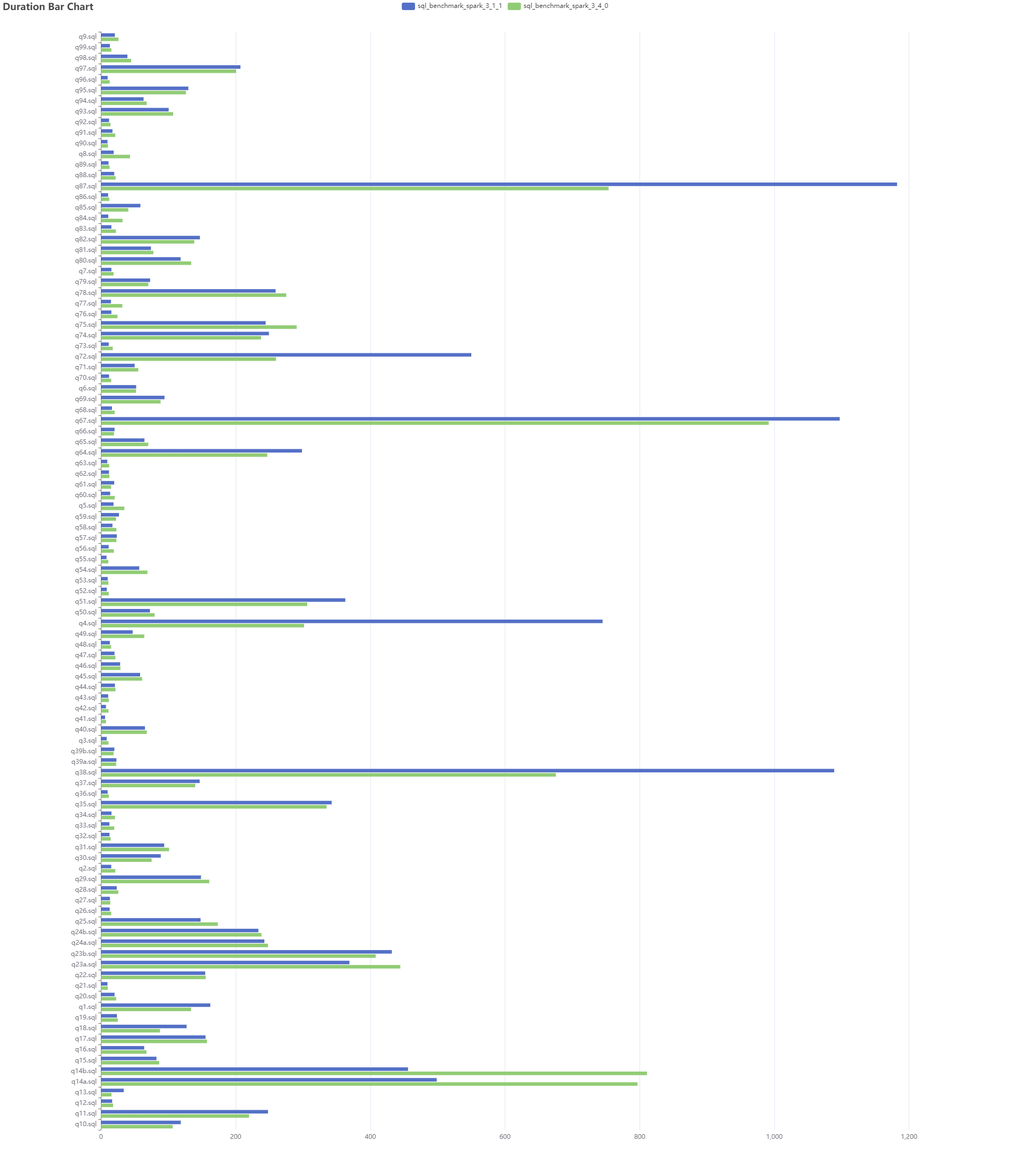
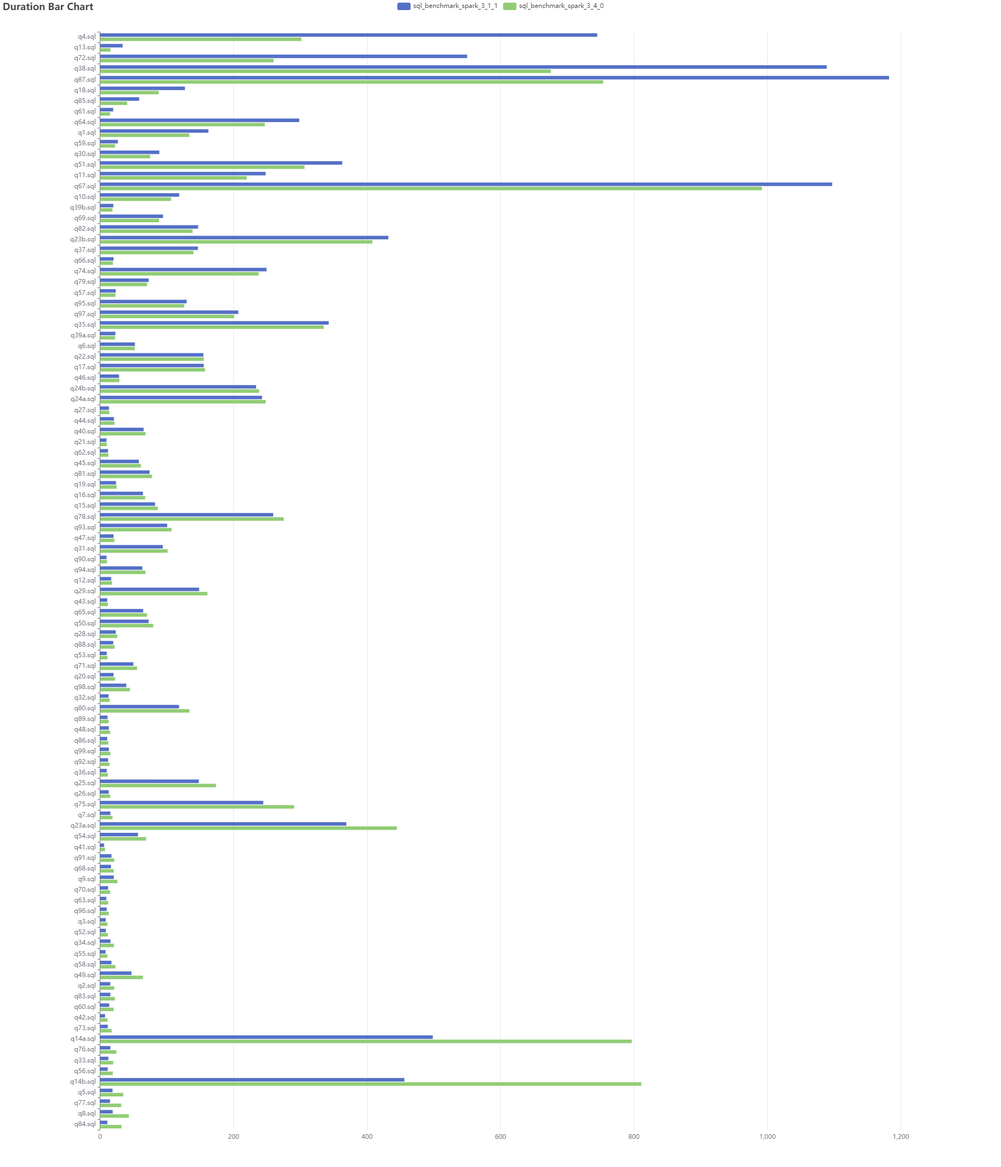
Generate `SpeedUp Bar Chart` in gen_chart script

Changed region(s): [[0.0615, 0.0, 0.8606, 0.9891], [0.6147, 0.1545, 0.7377, 0.1855]]

diff --git a/report/examples/aqe_001/aqe_001.html b/report/examples/aqe_001/aqe_001.html
@@ -6,7 +6,10 @@
     <script src="https://cdn.jsdelivr.net/npm/echarts@5.2.2/dist/echarts.min.js"></script>
     <style>
         #chart-container {
-		    position: absolute;
+            width: 100%;
+            height: 2200px;
+        }
+        #chart-container-speedup {
             width: 100%;
             height: 2200px;
         }
@@ -16,9 +19,13 @@
     <div id="chart-container">
         <div id="chart" style="height: 100%; width: 100%"></div>
     </div>
+    <div id="chart-container-speedup">
+        <div id="chart-speedup" style="height: 100%; width: 100%"></div>
+    </div>
     <script type="text/javascript">
-        var data1 = [{"name": "q10.sql", "value": 118.458}, {"name": "q11.sql", "value": 248.014}, {"name": "q12.sql", "value": 16.56}, {"name": "q13.sql", "value": 33.747}, {"name": "q14a.sql", "value": 498.545}, {"name": "q14b.sql", "value": 455.925}, {"name": "q15.sql", "value": 82.366}, {"name": "q16.sql", "value": 64.142}, {"name": "q17.sql", "value": 155.232}, {"name": "q18.sql", "value": 127.125}, {"name": "q19.sql", "value": 23.711}, {"name": "q1.sql", "value": 162.296}, {"name": "q20.sql", "value": 20.122}, {"name": "q21.sql", "value": 9.578}, {"name": "q22.sql", "value": 154.73}, {"name": "q23a.sql", "value": 368.983}, {"name": "q23b.sql", "value": 431.932}, {"name": "q24a.sql", "value": 242.616}, {"name": "q24b.sql", "value": 233.767}, {"name": "q25.sql", "value": 147.883}, {"name": "q26.sql", "value": 12.907}, {"name": "q27.sql", "value": 13.261}, {"name": "q28.sql", "value": 23.385}, {"name": "q29.sql", "value": 148.435}, {"name": "q2.sql", "value": 15.212}, {"name": "q30.sql", "value": 88.754}, {"name": "q31.sql", "value": 93.846}, {"name": "q32.sql", "value": 12.61}, {"name": "q33.sql", "value": 12.471}, {"name": "q34.sql", "value": 15.578}, {"name": "q35.sql", "value": 342.572}, {"name": "q36.sql", "value": 9.846}, {"name": "q37.sql", "value": 146.562}, {"name": "q38.sql", "value": 1088.923}, {"name": "q39a.sql", "value": 22.928}, {"name": "q39b.sql", "value": 19.837}, {"name": "q3.sql", "value": 8.441}, {"name": "q40.sql", "value": 65.284}, {"name": "q41.sql", "value": 6.056}, {"name": "q42.sql", "value": 7.396}, {"name": "q43.sql", "value": 10.647}, {"name": "q44.sql", "value": 20.662}, {"name": "q45.sql", "value": 58.099}, {"name": "q46.sql", "value": 28.385}, {"name": "q47.sql", "value": 20.064}, {"name": "q48.sql", "value": 13.096}, {"name": "q49.sql", "value": 47.016}, {"name": "q4.sql", "value": 744.956}, {"name": "q50.sql", "value": 72.679}, {"name": "q51.sql", "value": 362.825}, {"name": "q52.sql", "value": 8.627}, {"name": "q53.sql", "value": 9.921}, {"name": "q54.sql", "value": 56.762}, {"name": "q55.sql", "value": 8.203}, {"name": "q56.sql", "value": 11.376}, {"name": "q57.sql", "value": 23.47}, {"name": "q58.sql", "value": 17.042}, {"name": "q59.sql", "value": 26.675}, {"name": "q5.sql", "value": 18.589}, {"name": "q60.sql", "value": 13.625}, {"name": "q61.sql", "value": 19.605}, {"name": "q62.sql", "value": 11.836}, {"name": "q63.sql", "value": 9.328}, {"name": "q64.sql", "value": 298.439}, {"name": "q65.sql", "value": 64.522}, {"name": "q66.sql", "value": 20.138}, {"name": "q67.sql", "value": 1097.076}, {"name": "q68.sql", "value": 16.286}, {"name": "q69.sql", "value": 94.285}, {"name": "q6.sql", "value": 52.202}, {"name": "q70.sql", "value": 11.969}, {"name": "q71.sql", "value": 49.946}, {"name": "q72.sql", "value": 549.941}, {"name": "q73.sql", "value": 11.503}, {"name": "q74.sql", "value": 249.403}, {"name": "q75.sql", "value": 244.519}, {"name": "q76.sql", "value": 15.367}, {"name": "q77.sql", "value": 14.818}, {"name": "q78.sql", "value": 259.311}, {"name": "q79.sql", "value": 72.942}, {"name": "q7.sql", "value": 15.432}, {"name": "q80.sql", "value": 118.225}, {"name": "q81.sql", "value": 74.144}, {"name": "q82.sql", "value": 146.893}, {"name": "q83.sql", "value": 15.415}, {"name": "q84.sql", "value": 10.84}, {"name": "q85.sql", "value": 58.488}, {"name": "q86.sql", "value": 10.544}, {"name": "q87.sql", "value": 1182.264}, {"name": "q88.sql", "value": 19.655}, {"name": "q89.sql", "value": 11.133}, {"name": "q8.sql", "value": 18.835}, {"name": "q90.sql", "value": 9.639}, {"name": "q91.sql", "value": 17.038}, {"name": "q92.sql", "value": 11.977}, {"name": "q93.sql", "value": 100.531}, {"name": "q94.sql", "value": 63.222}, {"name": "q95.sql", "value": 129.704}, {"name": "q96.sql", "value": 9.862}, {"name": "q97.sql", "value": 207.124}, {"name": "q98.sql", "value": 39.195}, {"name": "q99.sql", "value": 13.158}, {"name": "q9.sql", "value": 20.536}];
-        var data2 = [{"name": "q10.sql", "value": 106.457}, {"name": "q11.sql", "value": 219.81}, {"name": "q12.sql", "value": 17.939}, {"name": "q13.sql", "value": 15.574}, {"name": "q14a.sql", "value": 796.665}, {"name": "q14b.sql", "value": 810.884}, {"name": "q15.sql", "value": 86.444}, {"name": "q16.sql", "value": 67.482}, {"name": "q17.sql", "value": 157.312}, {"name": "q18.sql", "value": 87.67}, {"name": "q19.sql", "value": 24.895}, {"name": "q1.sql", "value": 133.694}, {"name": "q20.sql", "value": 22.521}, {"name": "q21.sql", "value": 9.99}, {"name": "q22.sql", "value": 155.465}, {"name": "q23a.sql", "value": 444.545}, {"name": "q23b.sql", "value": 407.983}, {"name": "q24a.sql", "value": 248.054}, {"name": "q24b.sql", "value": 238.34}, {"name": "q25.sql", "value": 173.505}, {"name": "q26.sql", "value": 15.169}, {"name": "q27.sql", "value": 13.781}, {"name": "q28.sql", "value": 25.73}, {"name": "q29.sql", "value": 160.794}, {"name": "q2.sql", "value": 21.211}, {"name": "q30.sql", "value": 75.144}, {"name": "q31.sql", "value": 101.056}, {"name": "q32.sql", "value": 14.388}, {"name": "q33.sql", "value": 19.688}, {"name": "q34.sql", "value": 20.74}, {"name": "q35.sql", "value": 335.117}, {"name": "q36.sql", "value": 11.574}, {"name": "q37.sql", "value": 139.887}, {"name": "q38.sql", "value": 675.528}, {"name": "q39a.sql", "value": 22.521}, {"name": "q39b.sql", "value": 18.623}, {"name": "q3.sql", "value": 11.15}, {"name": "q40.sql", "value": 67.93}, {"name": "q41.sql", "value": 7.361}, {"name": "q42.sql", "value": 11.133}, {"name": "q43.sql", "value": 11.595}, {"name": "q44.sql", "value": 21.551}, {"name": "q45.sql", "value": 61.142}, {"name": "q46.sql", "value": 28.845}, {"name": "q47.sql", "value": 21.374}, {"name": "q48.sql", "value": 15.065}, {"name": "q49.sql", "value": 64.236}, {"name": "q4.sql", "value": 301.599}, {"name": "q50.sql", "value": 79.603}, {"name": "q51.sql", "value": 306.319}, {"name": "q52.sql", "value": 11.461}, {"name": "q53.sql", "value": 11.076}, {"name": "q54.sql", "value": 68.966}, {"name": "q55.sql", "value": 10.905}, {"name": "q56.sql", "value": 19.071}, {"name": "q57.sql", "value": 22.894}, {"name": "q58.sql", "value": 22.889}, {"name": "q59.sql", "value": 22.342}, {"name": "q5.sql", "value": 34.669}, {"name": "q60.sql", "value": 20.383}, {"name": "q61.sql", "value": 14.929}, {"name": "q62.sql", "value": 12.438}, {"name": "q63.sql", "value": 12.143}, {"name": "q64.sql", "value": 246.889}, {"name": "q65.sql", "value": 70.248}, {"name": "q66.sql", "value": 19.247}, {"name": "q67.sql", "value": 991.729}, {"name": "q68.sql", "value": 20.31}, {"name": "q69.sql", "value": 88.438}, {"name": "q6.sql", "value": 51.983}, {"name": "q70.sql", "value": 15.11}, {"name": "q71.sql", "value": 55.446}, {"name": "q72.sql", "value": 259.997}, {"name": "q73.sql", "value": 17.442}, {"name": "q74.sql", "value": 237.758}, {"name": "q75.sql", "value": 290.586}, {"name": "q76.sql", "value": 24.44}, {"name": "q77.sql", "value": 31.696}, {"name": "q78.sql", "value": 275.085}, {"name": "q79.sql", "value": 70.307}, {"name": "q7.sql", "value": 18.654}, {"name": "q80.sql", "value": 133.925}, {"name": "q81.sql", "value": 77.76}, {"name": "q82.sql", "value": 138.579}, {"name": "q83.sql", "value": 22.086}, {"name": "q84.sql", "value": 32.015}, {"name": "q85.sql", "value": 40.602}, {"name": "q86.sql", "value": 12.257}, {"name": "q87.sql", "value": 753.839}, {"name": "q88.sql", "value": 21.696}, {"name": "q89.sql", "value": 12.75}, {"name": "q8.sql", "value": 43.092}, {"name": "q90.sql", "value": 10.359}, {"name": "q91.sql", "value": 21.182}, {"name": "q92.sql", "value": 14.147}, {"name": "q93.sql", "value": 107.116}, {"name": "q94.sql", "value": 67.869}, {"name": "q95.sql", "value": 126.145}, {"name": "q96.sql", "value": 12.878}, {"name": "q97.sql", "value": 200.765}, {"name": "q98.sql", "value": 44.708}, {"name": "q99.sql", "value": 15.388}, {"name": "q9.sql", "value": 25.976}];
+        var data1 = [{"name": "q84.sql", "value": 10.84}, {"name": "q8.sql", "value": 18.835}, {"name": "q77.sql", "value": 14.818}, {"name": "q5.sql", "value": 18.589}, {"name": "q14b.sql", "value": 455.925}, {"name": "q56.sql", "value": 11.376}, {"name": "q33.sql", "value": 12.471}, {"name": "q76.sql", "value": 15.367}, {"name": "q14a.sql", "value": 498.545}, {"name": "q73.sql", "value": 11.503}, {"name": "q42.sql", "value": 7.396}, {"name": "q60.sql", "value": 13.625}, {"name": "q83.sql", "value": 15.415}, {"name": "q2.sql", "value": 15.212}, {"name": "q49.sql", "value": 47.016}, {"name": "q58.sql", "value": 17.042}, {"name": "q55.sql", "value": 8.203}, {"name": "q34.sql", "value": 15.578}, {"name": "q52.sql", "value": 8.627}, {"name": "q3.sql", "value": 8.441}, {"name": "q96.sql", "value": 9.862}, {"name": "q63.sql", "value": 9.328}, {"name": "q70.sql", "value": 11.969}, {"name": "q9.sql", "value": 20.536}, {"name": "q68.sql", "value": 16.286}, {"name": "q91.sql", "value": 17.038}, {"name": "q41.sql", "value": 6.056}, {"name": "q54.sql", "value": 56.762}, {"name": "q23a.sql", "value": 368.983}, {"name": "q7.sql", "value": 15.432}, {"name": "q75.sql", "value": 244.519}, {"name": "q26.sql", "value": 12.907}, {"name": "q25.sql", "value": 147.883}, {"name": "q36.sql", "value": 9.846}, {"name": "q92.sql", "value": 11.977}, {"name": "q99.sql", "value": 13.158}, {"name": "q86.sql", "value": 10.544}, {"name": "q48.sql", "value": 13.096}, {"name": "q89.sql", "value": 11.133}, {"name": "q80.sql", "value": 118.225}, {"name": "q32.sql", "value": 12.61}, {"name": "q98.sql", "value": 39.195}, {"name": "q20.sql", "value": 20.122}, {"name": "q71.sql", "value": 49.946}, {"name": "q53.sql", "value": 9.921}, {"name": "q88.sql", "value": 19.655}, {"name": "q28.sql", "value": 23.385}, {"name": "q50.sql", "value": 72.679}, {"name": "q65.sql", "value": 64.522}, {"name": "q43.sql", "value": 10.647}, {"name": "q29.sql", "value": 148.435}, {"name": "q12.sql", "value": 16.56}, {"name": "q94.sql", "value": 63.222}, {"name": "q90.sql", "value": 9.639}, {"name": "q31.sql", "value": 93.846}, {"name": "q47.sql", "value": 20.064}, {"name": "q93.sql", "value": 100.531}, {"name": "q78.sql", "value": 259.311}, {"name": "q15.sql", "value": 82.366}, {"name": "q16.sql", "value": 64.142}, {"name": "q19.sql", "value": 23.711}, {"name": "q81.sql", "value": 74.144}, {"name": "q45.sql", "value": 58.099}, {"name": "q62.sql", "value": 11.836}, {"name": "q21.sql", "value": 9.578}, {"name": "q40.sql", "value": 65.284}, {"name": "q44.sql", "value": 20.662}, {"name": "q27.sql", "value": 13.261}, {"name": "q24a.sql", "value": 242.616}, {"name": "q24b.sql", "value": 233.767}, {"name": "q46.sql", "value": 28.385}, {"name": "q17.sql", "value": 155.232}, {"name": "q22.sql", "value": 154.73}, {"name": "q6.sql", "value": 52.202}, {"name": "q39a.sql", "value": 22.928}, {"name": "q35.sql", "value": 342.572}, {"name": "q97.sql", "value": 207.124}, {"name": "q95.sql", "value": 129.704}, {"name": "q57.sql", "value": 23.47}, {"name": "q79.sql", "value": 72.942}, {"name": "q74.sql", "value": 249.403}, {"name": "q66.sql", "value": 20.138}, {"name": "q37.sql", "value": 146.562}, {"name": "q23b.sql", "value": 431.932}, {"name": "q82.sql", "value": 146.893}, {"name": "q69.sql", "value": 94.285}, {"name": "q39b.sql", "value": 19.837}, {"name": "q10.sql", "value": 118.458}, {"name": "q67.sql", "value": 1097.076}, {"name": "q11.sql", "value": 248.014}, {"name": "q51.sql", "value": 362.825}, {"name": "q30.sql", "value": 88.754}, {"name": "q59.sql", "value": 26.675}, {"name": "q1.sql", "value": 162.296}, {"name": "q64.sql", "value": 298.439}, {"name": "q61.sql", "value": 19.605}, {"name": "q85.sql", "value": 58.488}, {"name": "q18.sql", "value": 127.125}, {"name": "q87.sql", "value": 1182.264}, {"name": "q38.sql", "value": 1088.923}, {"name": "q72.sql", "value": 549.941}, {"name": "q13.sql", "value": 33.747}, {"name": "q4.sql", "value": 744.956}];
+        var data2 = [{"name": "q84.sql", "value": 32.015}, {"name": "q8.sql", "value": 43.092}, {"name": "q77.sql", "value": 31.696}, {"name": "q5.sql", "value": 34.669}, {"name": "q14b.sql", "value": 810.884}, {"name": "q56.sql", "value": 19.071}, {"name": "q33.sql", "value": 19.688}, {"name": "q76.sql", "value": 24.44}, {"name": "q14a.sql", "value": 796.665}, {"name": "q73.sql", "value": 17.442}, {"name": "q42.sql", "value": 11.133}, {"name": "q60.sql", "value": 20.383}, {"name": "q83.sql", "value": 22.086}, {"name": "q2.sql", "value": 21.211}, {"name": "q49.sql", "value": 64.236}, {"name": "q58.sql", "value": 22.889}, {"name": "q55.sql", "value": 10.905}, {"name": "q34.sql", "value": 20.74}, {"name": "q52.sql", "value": 11.461}, {"name": "q3.sql", "value": 11.15}, {"name": "q96.sql", "value": 12.878}, {"name": "q63.sql", "value": 12.143}, {"name": "q70.sql", "value": 15.11}, {"name": "q9.sql", "value": 25.976}, {"name": "q68.sql", "value": 20.31}, {"name": "q91.sql", "value": 21.182}, {"name": "q41.sql", "value": 7.361}, {"name": "q54.sql", "value": 68.966}, {"name": "q23a.sql", "value": 444.545}, {"name": "q7.sql", "value": 18.654}, {"name": "q75.sql", "value": 290.586}, {"name": "q26.sql", "value": 15.169}, {"name": "q25.sql", "value": 173.505}, {"name": "q36.sql", "value": 11.574}, {"name": "q92.sql", "value": 14.147}, {"name": "q99.sql", "value": 15.388}, {"name": "q86.sql", "value": 12.257}, {"name": "q48.sql", "value": 15.065}, {"name": "q89.sql", "value": 12.75}, {"name": "q80.sql", "value": 133.925}, {"name": "q32.sql", "value": 14.388}, {"name": "q98.sql", "value": 44.708}, {"name": "q20.sql", "value": 22.521}, {"name": "q71.sql", "value": 55.446}, {"name": "q53.sql", "value": 11.076}, {"name": "q88.sql", "value": 21.696}, {"name": "q28.sql", "value": 25.73}, {"name": "q50.sql", "value": 79.603}, {"name": "q65.sql", "value": 70.248}, {"name": "q43.sql", "value": 11.595}, {"name": "q29.sql", "value": 160.794}, {"name": "q12.sql", "value": 17.939}, {"name": "q94.sql", "value": 67.869}, {"name": "q90.sql", "value": 10.359}, {"name": "q31.sql", "value": 101.056}, {"name": "q47.sql", "value": 21.374}, {"name": "q93.sql", "value": 107.116}, {"name": "q78.sql", "value": 275.085}, {"name": "q15.sql", "value": 86.444}, {"name": "q16.sql", "value": 67.482}, {"name": "q19.sql", "value": 24.895}, {"name": "q81.sql", "value": 77.76}, {"name": "q45.sql", "value": 61.142}, {"name": "q62.sql", "value": 12.438}, {"name": "q21.sql", "value": 9.99}, {"name": "q40.sql", "value": 67.93}, {"name": "q44.sql", "value": 21.551}, {"name": "q27.sql", "value": 13.781}, {"name": "q24a.sql", "value": 248.054}, {"name": "q24b.sql", "value": 238.34}, {"name": "q46.sql", "value": 28.845}, {"name": "q17.sql", "value": 157.312}, {"name": "q22.sql", "value": 155.465}, {"name": "q6.sql", "value": 51.983}, {"name": "q39a.sql", "value": 22.521}, {"name": "q35.sql", "value": 335.117}, {"name": "q97.sql", "value": 200.765}, {"name": "q95.sql", "value": 126.145}, {"name": "q57.sql", "value": 22.894}, {"name": "q79.sql", "value": 70.307}, {"name": "q74.sql", "value": 237.758}, {"name": "q66.sql", "value": 19.247}, {"name": "q37.sql", "value": 139.887}, {"name": "q23b.sql", "value": 407.983}, {"name": "q82.sql", "value": 138.579}, {"name": "q69.sql", "value": 88.438}, {"name": "q39b.sql", "value": 18.623}, {"name": "q10.sql", "value": 106.457}, {"name": "q67.sql", "value": 991.729}, {"name": "q11.sql", "value": 219.81}, {"name": "q51.sql", "value": 306.319}, {"name": "q30.sql", "value": 75.144}, {"name": "q59.sql", "value": 22.342}, {"name": "q1.sql", "value": 133.694}, {"name": "q64.sql", "value": 246.889}, {"name": "q61.sql", "value": 14.929}, {"name": "q85.sql", "value": 40.602}, {"name": "q18.sql", "value": 87.67}, {"name": "q87.sql", "value": 753.839}, {"name": "q38.sql", "value": 675.528}, {"name": "q72.sql", "value": 259.997}, {"name": "q13.sql", "value": 15.574}, {"name": "q4.sql", "value": 301.599}];
+        var data3 = [{"name": "q84.sql", "value": 0.34}, {"name": "q8.sql", "value": 0.44}, {"name": "q77.sql", "value": 0.47}, {"name": "q5.sql", "value": 0.54}, {"name": "q14b.sql", "value": 0.56}, {"name": "q56.sql", "value": 0.6}, {"name": "q33.sql", "value": 0.63}, {"name": "q76.sql", "value": 0.63}, {"name": "q14a.sql", "value": 0.63}, {"name": "q73.sql", "value": 0.66}, {"name": "q42.sql", "value": 0.66}, {"name": "q60.sql", "value": 0.67}, {"name": "q83.sql", "value": 0.7}, {"name": "q2.sql", "value": 0.72}, {"name": "q49.sql", "value": 0.73}, {"name": "q58.sql", "value": 0.74}, {"name": "q55.sql", "value": 0.75}, {"name": "q34.sql", "value": 0.75}, {"name": "q52.sql", "value": 0.75}, {"name": "q3.sql", "value": 0.76}, {"name": "q96.sql", "value": 0.77}, {"name": "q63.sql", "value": 0.77}, {"name": "q70.sql", "value": 0.79}, {"name": "q9.sql", "value": 0.79}, {"name": "q68.sql", "value": 0.8}, {"name": "q91.sql", "value": 0.8}, {"name": "q41.sql", "value": 0.82}, {"name": "q54.sql", "value": 0.82}, {"name": "q23a.sql", "value": 0.83}, {"name": "q7.sql", "value": 0.83}, {"name": "q75.sql", "value": 0.84}, {"name": "q26.sql", "value": 0.85}, {"name": "q25.sql", "value": 0.85}, {"name": "q36.sql", "value": 0.85}, {"name": "q92.sql", "value": 0.85}, {"name": "q99.sql", "value": 0.86}, {"name": "q86.sql", "value": 0.86}, {"name": "q48.sql", "value": 0.87}, {"name": "q89.sql", "value": 0.87}, {"name": "q80.sql", "value": 0.88}, {"name": "q32.sql", "value": 0.88}, {"name": "q98.sql", "value": 0.88}, {"name": "q20.sql", "value": 0.89}, {"name": "q71.sql", "value": 0.9}, {"name": "q53.sql", "value": 0.9}, {"name": "q88.sql", "value": 0.91}, {"name": "q28.sql", "value": 0.91}, {"name": "q50.sql", "value": 0.91}, {"name": "q65.sql", "value": 0.92}, {"name": "q43.sql", "value": 0.92}, {"name": "q29.sql", "value": 0.92}, {"name": "q12.sql", "value": 0.92}, {"name": "q94.sql", "value": 0.93}, {"name": "q90.sql", "value": 0.93}, {"name": "q31.sql", "value": 0.93}, {"name": "q47.sql", "value": 0.94}, {"name": "q93.sql", "value": 0.94}, {"name": "q78.sql", "value": 0.94}, {"name": "q15.sql", "value": 0.95}, {"name": "q16.sql", "value": 0.95}, {"name": "q19.sql", "value": 0.95}, {"name": "q81.sql", "value": 0.95}, {"name": "q45.sql", "value": 0.95}, {"name": "q62.sql", "value": 0.95}, {"name": "q21.sql", "value": 0.96}, {"name": "q40.sql", "value": 0.96}, {"name": "q44.sql", "value": 0.96}, {"name": "q27.sql", "value": 0.96}, {"name": "q24a.sql", "value": 0.98}, {"name": "q24b.sql", "value": 0.98}, {"name": "q46.sql", "value": 0.98}, {"name": "q17.sql", "value": 0.99}, {"name": "q22.sql", "value": 1.0}, {"name": "q6.sql", "value": 1.0}, {"name": "q39a.sql", "value": 1.02}, {"name": "q35.sql", "value": 1.02}, {"name": "q97.sql", "value": 1.03}, {"name": "q95.sql", "value": 1.03}, {"name": "q57.sql", "value": 1.03}, {"name": "q79.sql", "value": 1.04}, {"name": "q74.sql", "value": 1.05}, {"name": "q66.sql", "value": 1.05}, {"name": "q37.sql", "value": 1.05}, {"name": "q23b.sql", "value": 1.06}, {"name": "q82.sql", "value": 1.06}, {"name": "q69.sql", "value": 1.07}, {"name": "q39b.sql", "value": 1.07}, {"name": "q10.sql", "value": 1.11}, {"name": "q67.sql", "value": 1.11}, {"name": "q11.sql", "value": 1.13}, {"name": "q51.sql", "value": 1.18}, {"name": "q30.sql", "value": 1.18}, {"name": "q59.sql", "value": 1.19}, {"name": "q1.sql", "value": 1.21}, {"name": "q64.sql", "value": 1.21}, {"name": "q61.sql", "value": 1.31}, {"name": "q85.sql", "value": 1.44}, {"name": "q18.sql", "value": 1.45}, {"name": "q87.sql", "value": 1.57}, {"name": "q38.sql", "value": 1.61}, {"name": "q72.sql", "value": 2.12}, {"name": "q13.sql", "value": 2.17}, {"name": "q4.sql", "value": 2.47}];
         var seriesName1 = "sql_benchmark_spark_3_1_1";
         var seriesName2 = "sql_benchmark_spark_3_4_0";
 
@@ -54,6 +61,41 @@
             }]
         };
         chart.setOption(option);
+        
+        var chartSpeedup = echarts.init(document.getElementById("chart-speedup"));
+        var optionSpeedup = {
+            title: {
+                text: "SpeedUp Bar Chart (Duration(s)_1/Duration(s)_2)"
+            },
+            legend: {
+                data: ["SpeedUp"]
+            },
+            xAxis: {
+                type: "value"
+            },
+            yAxis: {
+                type: "category",
+                data: data3.map(function (item) {
+                    return item.name;
+                })
+            },
+            series: [{
+                name: "SpeedUp",
+                type: "bar",
+                label: {
+                    show: true,
+                    formatter: '{c}'
+                },
+                data: data3.map(function (item) {
+                    if (item.value < 1) {
+                        return {value: item.value, itemStyle: {color: '#a90000'}};
+                    } else {
+                        return item.value
+                    }
+                })
+            }]
+        };
+        chartSpeedup.setOption(optionSpeedup);
     </script>
 </body>
 </html>

diff --git a/report/examples/gluten_spark_3.3.2/gluten_spark_3.3.2.html b/report/examples/gluten_spark_3.3.2/gluten_spark_3.3.2.html
@@ -6,7 +6,10 @@
     <script src="https://cdn.jsdelivr.net/npm/echarts@5.2.2/dist/echarts.min.js"></script>
     <style>
         #chart-container {
-		    position: absolute;
+            width: 100%;
+            height: 2200px;
+        }
+        #chart-container-speedup {
             width: 100%;
             height: 2200px;
         }
@@ -16,9 +19,13 @@
     <div id="chart-container">
         <div id="chart" style="height: 100%; width: 100%"></div>
     </div>
+    <div id="chart-container-speedup">
+        <div id="chart-speedup" style="height: 100%; width: 100%"></div>
+    </div>
     <script type="text/javascript">
-        var data1 = [{"name": "q10.sql", "value": 85.335}, {"name": "q11.sql", "value": 71.904}, {"name": "q12.sql", "value": 12.572}, {"name": "q13.sql", "value": 16.258}, {"name": "q14a.sql", "value": 73.125}, {"name": "q14b.sql", "value": 67.887}, {"name": "q15.sql", "value": 17.019}, {"name": "q16.sql", "value": 47.491}, {"name": "q17.sql", "value": 21.031}, {"name": "q18.sql", "value": 24.452}, {"name": "q19.sql", "value": 12.575}, {"name": "q1.sql", "value": 18.197}, {"name": "q20.sql", "value": 11.61}, {"name": "q21.sql", "value": 9.173}, {"name": "q22.sql", "value": 16.677}, {"name": "q23a.sql", "value": 141.575}, {"name": "q23b.sql", "value": 145.872}, {"name": "q24a.sql", "value": 96.649}, {"name": "q24b.sql", "value": 102.575}, {"name": "q25.sql", "value": 17.9}, {"name": "q26.sql", "value": 10.576}, {"name": "q27.sql", "value": 12.669}, {"name": "q28.sql", "value": 25.844}, {"name": "q29.sql", "value": 22.381}, {"name": "q2.sql", "value": 14.787}, {"name": "q30.sql", "value": 18.05}, {"name": "q31.sql", "value": 21.406}, {"name": "q32.sql", "value": 11.079}, {"name": "q33.sql", "value": 14.001}, {"name": "q34.sql", "value": 14.995}, {"name": "q35.sql", "value": 20.351}, {"name": "q36.sql", "value": 11.184}, {"name": "q37.sql", "value": 13.995}, {"name": "q38.sql", "value": 25.807}, {"name": "q39a.sql", "value": 15.083}, {"name": "q39b.sql", "value": 12.091}, {"name": "q3.sql", "value": 8.261}, {"name": "q40.sql", "value": 13.892}, {"name": "q41.sql", "value": 7.435}, {"name": "q42.sql", "value": 8.409}, {"name": "q43.sql", "value": 9.653}, {"name": "q44.sql", "value": 16.506}, {"name": "q45.sql", "value": 15.521}, {"name": "q46.sql", "value": 14.196}, {"name": "q47.sql", "value": 15.744}, {"name": "q48.sql", "value": 13.503}, {"name": "q49.sql", "value": 17.98}, {"name": "q4.sql", "value": 100.477}, {"name": "q50.sql", "value": 42.958}, {"name": "q51.sql", "value": 24.483}, {"name": "q52.sql", "value": 8.802}, {"name": "q53.sql", "value": 9.327}, {"name": "q54.sql", "value": 14.941}, {"name": "q55.sql", "value": 9.053}, {"name": "q56.sql", "value": 11.53}, {"name": "q57.sql", "value": 14.218}, {"name": "q58.sql", "value": 12.385}, {"name": "q59.sql", "value": 15.671}, {"name": "q5.sql", "value": 19.02}, {"name": "q60.sql", "value": 15.864}, {"name": "q61.sql", "value": 10.412}, {"name": "q62.sql", "value": 10.453}, {"name": "q63.sql", "value": 10.775}, {"name": "q64.sql", "value": 63.331}, {"name": "q65.sql", "value": 23.014}, {"name": "q66.sql", "value": 14.798}, {"name": "q67.sql", "value": 407.974}, {"name": "q68.sql", "value": 13.755}, {"name": "q69.sql", "value": 13.562}, {"name": "q6.sql", "value": 12.996}, {"name": "q70.sql", "value": 12.618}, {"name": "q71.sql", "value": 50.445}, {"name": "q72.sql", "value": 96.539}, {"name": "q73.sql", "value": 10.782}, {"name": "q74.sql", "value": 32.367}, {"name": "q75.sql", "value": 32.024}, {"name": "q76.sql", "value": 15.171}, {"name": "q77.sql", "value": 14.75}, {"name": "q78.sql", "value": 71.173}, {"name": "q79.sql", "value": 13.133}, {"name": "q7.sql", "value": 12.189}, {"name": "q80.sql", "value": 24.263}, {"name": "q81.sql", "value": 17.703}, {"name": "q82.sql", "value": 19.511}, {"name": "q83.sql", "value": 11.396}, {"name": "q84.sql", "value": 10.196}, {"name": "q85.sql", "value": 18.422}, {"name": "q86.sql", "value": 10.297}, {"name": "q87.sql", "value": 23.562}, {"name": "q88.sql", "value": 24.724}, {"name": "q89.sql", "value": 10.896}, {"name": "q8.sql", "value": 12.157}, {"name": "q90.sql", "value": 9.595}, {"name": "q91.sql", "value": 9.792}, {"name": "q92.sql", "value": 9.998}, {"name": "q93.sql", "value": 74.793}, {"name": "q94.sql", "value": 31.373}, {"name": "q95.sql", "value": 62.733}, {"name": "q96.sql", "value": 9.504}, {"name": "q97.sql", "value": 25.557}, {"name": "q98.sql", "value": 19.797}, {"name": "q99.sql", "value": 12.064}, {"name": "q9.sql", "value": 20.565}];
-        var data2 = [{"name": "q10.sql", "value": 25.553}, {"name": "q11.sql", "value": 15.545}, {"name": "q12.sql", "value": 12.426}, {"name": "q13.sql", "value": 18.367}, {"name": "q14a.sql", "value": 83.431}, {"name": "q14b.sql", "value": 67.496}, {"name": "q15.sql", "value": 14.321}, {"name": "q16.sql", "value": 36.914}, {"name": "q17.sql", "value": 15.808}, {"name": "q18.sql", "value": 16.615}, {"name": "q19.sql", "value": 11.515}, {"name": "q1.sql", "value": 14.35}, {"name": "q20.sql", "value": 10.071}, {"name": "q21.sql", "value": 8.286}, {"name": "q22.sql", "value": 13.423}, {"name": "q23a.sql", "value": 61.013}, {"name": "q23b.sql", "value": 68.445}, {"name": "q24a.sql", "value": 50.093}, {"name": "q24b.sql", "value": 54.957}, {"name": "q25.sql", "value": 14.997}, {"name": "q26.sql", "value": 10.054}, {"name": "q27.sql", "value": 10.225}, {"name": "q28.sql", "value": 21.496}, {"name": "q29.sql", "value": 14.375}, {"name": "q2.sql", "value": 16.784}, {"name": "q30.sql", "value": 21.04}, {"name": "q31.sql", "value": 21.725}, {"name": "q32.sql", "value": 9.684}, {"name": "q33.sql", "value": 13.739}, {"name": "q34.sql", "value": 17.43}, {"name": "q35.sql", "value": 22.312}, {"name": "q36.sql", "value": 9.696}, {"name": "q37.sql", "value": 12.766}, {"name": "q38.sql", "value": 17.949}, {"name": "q39a.sql", "value": 15.58}, {"name": "q39b.sql", "value": 14.158}, {"name": "q3.sql", "value": 8.358}, {"name": "q40.sql", "value": 13.21}, {"name": "q41.sql", "value": 6.705}, {"name": "q42.sql", "value": 8.259}, {"name": "q43.sql", "value": 9.212}, {"name": "q44.sql", "value": 19.908}, {"name": "q45.sql", "value": 13.443}, {"name": "q46.sql", "value": 16.148}, {"name": "q47.sql", "value": 14.413}, {"name": "q48.sql", "value": 11.64}, {"name": "q49.sql", "value": 24.194}, {"name": "q4.sql", "value": 19.645}, {"name": "q50.sql", "value": 17.988}, {"name": "q51.sql", "value": 14.207}, {"name": "q52.sql", "value": 9.597}, {"name": "q53.sql", "value": 8.357}, {"name": "q54.sql", "value": 12.933}, {"name": "q55.sql", "value": 8.516}, {"name": "q56.sql", "value": 10.883}, {"name": "q57.sql", "value": 12.84}, {"name": "q58.sql", "value": 10.534}, {"name": "q59.sql", "value": 13.225}, {"name": "q5.sql", "value": 19.54}, {"name": "q60.sql", "value": 16.236}, {"name": "q61.sql", "value": 10.992}, {"name": "q62.sql", "value": 11.238}, {"name": "q63.sql", "value": 9.499}, {"name": "q64.sql", "value": 26.576}, {"name": "q65.sql", "value": 19.719}, {"name": "q66.sql", "value": 14.47}, {"name": "q67.sql", "value": 326.671}, {"name": "q68.sql", "value": 11.804}, {"name": "q69.sql", "value": 13.088}, {"name": "q6.sql", "value": 10.312}, {"name": "q70.sql", "value": 13.321}, {"name": "q71.sql", "value": 54.754}, {"name": "q72.sql", "value": 866.761}, {"name": "q73.sql", "value": 9.824}, {"name": "q74.sql", "value": 12.64}, {"name": "q75.sql", "value": 28.521}, {"name": "q76.sql", "value": 16.445}, {"name": "q77.sql", "value": 16.856}, {"name": "q78.sql", "value": 22.643}, {"name": "q79.sql", "value": 11.54}, {"name": "q7.sql", "value": 10.199}, {"name": "q80.sql", "value": 24.626}, {"name": "q81.sql", "value": 15.882}, {"name": "q82.sql", "value": 12.759}, {"name": "q83.sql", "value": 11.16}, {"name": "q84.sql", "value": 11.458}, {"name": "q85.sql", "value": 15.575}, {"name": "q86.sql", "value": 8.698}, {"name": "q87.sql", "value": 19.282}, {"name": "q88.sql", "value": 21.591}, {"name": "q89.sql", "value": 10.382}, {"name": "q8.sql", "value": 12.196}, {"name": "q90.sql", "value": 10.228}, {"name": "q91.sql", "value": 10.576}, {"name": "q92.sql", "value": 9.915}, {"name": "q93.sql", "value": 24.014}, {"name": "q94.sql", "value": 21.945}, {"name": "q95.sql", "value": 57.881}, {"name": "q96.sql", "value": 8.902}, {"name": "q97.sql", "value": 16.175}, {"name": "q98.sql", "value": 19.043}, {"name": "q99.sql", "value": 12.869}, {"name": "q9.sql", "value": 25.679}];
+        var data1 = [{"name": "q72.sql", "value": 96.539}, {"name": "q49.sql", "value": 17.98}, {"name": "q9.sql", "value": 20.565}, {"name": "q44.sql", "value": 16.506}, {"name": "q39b.sql", "value": 12.091}, {"name": "q34.sql", "value": 14.995}, {"name": "q30.sql", "value": 18.05}, {"name": "q14a.sql", "value": 73.125}, {"name": "q46.sql", "value": 14.196}, {"name": "q2.sql", "value": 14.787}, {"name": "q77.sql", "value": 14.75}, {"name": "q84.sql", "value": 10.196}, {"name": "q13.sql", "value": 16.258}, {"name": "q35.sql", "value": 20.351}, {"name": "q71.sql", "value": 50.445}, {"name": "q76.sql", "value": 15.171}, {"name": "q52.sql", "value": 8.802}, {"name": "q62.sql", "value": 10.453}, {"name": "q91.sql", "value": 9.792}, {"name": "q99.sql", "value": 12.064}, {"name": "q90.sql", "value": 9.595}, {"name": "q70.sql", "value": 12.618}, {"name": "q61.sql", "value": 10.412}, {"name": "q39a.sql", "value": 15.083}, {"name": "q5.sql", "value": 19.02}, {"name": "q60.sql", "value": 15.864}, {"name": "q31.sql", "value": 21.406}, {"name": "q80.sql", "value": 24.263}, {"name": "q3.sql", "value": 8.261}, {"name": "q8.sql", "value": 12.157}, {"name": "q92.sql", "value": 9.998}, {"name": "q12.sql", "value": 12.572}, {"name": "q14b.sql", "value": 67.887}, {"name": "q33.sql", "value": 14.001}, {"name": "q66.sql", "value": 14.798}, {"name": "q83.sql", "value": 11.396}, {"name": "q42.sql", "value": 8.409}, {"name": "q98.sql", "value": 19.797}, {"name": "q69.sql", "value": 13.562}, {"name": "q43.sql", "value": 9.653}, {"name": "q40.sql", "value": 13.892}, {"name": "q89.sql", "value": 10.896}, {"name": "q26.sql", "value": 10.576}, {"name": "q56.sql", "value": 11.53}, {"name": "q55.sql", "value": 9.053}, {"name": "q96.sql", "value": 9.504}, {"name": "q95.sql", "value": 62.733}, {"name": "q47.sql", "value": 15.744}, {"name": "q19.sql", "value": 12.575}, {"name": "q73.sql", "value": 10.782}, {"name": "q37.sql", "value": 13.995}, {"name": "q21.sql", "value": 9.173}, {"name": "q81.sql", "value": 17.703}, {"name": "q41.sql", "value": 7.435}, {"name": "q57.sql", "value": 14.218}, {"name": "q75.sql", "value": 32.024}, {"name": "q53.sql", "value": 9.327}, {"name": "q63.sql", "value": 10.775}, {"name": "q79.sql", "value": 13.133}, {"name": "q32.sql", "value": 11.079}, {"name": "q20.sql", "value": 11.61}, {"name": "q88.sql", "value": 24.724}, {"name": "q45.sql", "value": 15.521}, {"name": "q36.sql", "value": 11.184}, {"name": "q54.sql", "value": 14.941}, {"name": "q48.sql", "value": 13.503}, {"name": "q65.sql", "value": 23.014}, {"name": "q68.sql", "value": 13.755}, {"name": "q86.sql", "value": 10.297}, {"name": "q85.sql", "value": 18.422}, {"name": "q58.sql", "value": 12.385}, {"name": "q59.sql", "value": 15.671}, {"name": "q15.sql", "value": 17.019}, {"name": "q25.sql", "value": 17.9}, {"name": "q7.sql", "value": 12.189}, {"name": "q28.sql", "value": 25.844}, {"name": "q87.sql", "value": 23.562}, {"name": "q22.sql", "value": 16.677}, {"name": "q27.sql", "value": 12.669}, {"name": "q67.sql", "value": 407.974}, {"name": "q6.sql", "value": 12.996}, {"name": "q1.sql", "value": 18.197}, {"name": "q16.sql", "value": 47.491}, {"name": "q17.sql", "value": 21.031}, {"name": "q94.sql", "value": 31.373}, {"name": "q38.sql", "value": 25.807}, {"name": "q18.sql", "value": 24.452}, {"name": "q82.sql", "value": 19.511}, {"name": "q29.sql", "value": 22.381}, {"name": "q97.sql", "value": 25.557}, {"name": "q51.sql", "value": 24.483}, {"name": "q24b.sql", "value": 102.575}, {"name": "q24a.sql", "value": 96.649}, {"name": "q23b.sql", "value": 145.872}, {"name": "q23a.sql", "value": 141.575}, {"name": "q64.sql", "value": 63.331}, {"name": "q50.sql", "value": 42.958}, {"name": "q74.sql", "value": 32.367}, {"name": "q93.sql", "value": 74.793}, {"name": "q78.sql", "value": 71.173}, {"name": "q10.sql", "value": 85.335}, {"name": "q11.sql", "value": 71.904}, {"name": "q4.sql", "value": 100.477}];
+        var data2 = [{"name": "q72.sql", "value": 866.761}, {"name": "q49.sql", "value": 24.194}, {"name": "q9.sql", "value": 25.679}, {"name": "q44.sql", "value": 19.908}, {"name": "q39b.sql", "value": 14.158}, {"name": "q34.sql", "value": 17.43}, {"name": "q30.sql", "value": 21.04}, {"name": "q14a.sql", "value": 83.431}, {"name": "q46.sql", "value": 16.148}, {"name": "q2.sql", "value": 16.784}, {"name": "q77.sql", "value": 16.856}, {"name": "q84.sql", "value": 11.458}, {"name": "q13.sql", "value": 18.367}, {"name": "q35.sql", "value": 22.312}, {"name": "q71.sql", "value": 54.754}, {"name": "q76.sql", "value": 16.445}, {"name": "q52.sql", "value": 9.597}, {"name": "q62.sql", "value": 11.238}, {"name": "q91.sql", "value": 10.576}, {"name": "q99.sql", "value": 12.869}, {"name": "q90.sql", "value": 10.228}, {"name": "q70.sql", "value": 13.321}, {"name": "q61.sql", "value": 10.992}, {"name": "q39a.sql", "value": 15.58}, {"name": "q5.sql", "value": 19.54}, {"name": "q60.sql", "value": 16.236}, {"name": "q31.sql", "value": 21.725}, {"name": "q80.sql", "value": 24.626}, {"name": "q3.sql", "value": 8.358}, {"name": "q8.sql", "value": 12.196}, {"name": "q92.sql", "value": 9.915}, {"name": "q12.sql", "value": 12.426}, {"name": "q14b.sql", "value": 67.496}, {"name": "q33.sql", "value": 13.739}, {"name": "q66.sql", "value": 14.47}, {"name": "q83.sql", "value": 11.16}, {"name": "q42.sql", "value": 8.259}, {"name": "q98.sql", "value": 19.043}, {"name": "q69.sql", "value": 13.088}, {"name": "q43.sql", "value": 9.212}, {"name": "q40.sql", "value": 13.21}, {"name": "q89.sql", "value": 10.382}, {"name": "q26.sql", "value": 10.054}, {"name": "q56.sql", "value": 10.883}, {"name": "q55.sql", "value": 8.516}, {"name": "q96.sql", "value": 8.902}, {"name": "q95.sql", "value": 57.881}, {"name": "q47.sql", "value": 14.413}, {"name": "q19.sql", "value": 11.515}, {"name": "q73.sql", "value": 9.824}, {"name": "q37.sql", "value": 12.766}, {"name": "q21.sql", "value": 8.286}, {"name": "q81.sql", "value": 15.882}, {"name": "q41.sql", "value": 6.705}, {"name": "q57.sql", "value": 12.84}, {"name": "q75.sql", "value": 28.521}, {"name": "q53.sql", "value": 8.357}, {"name": "q63.sql", "value": 9.499}, {"name": "q79.sql", "value": 11.54}, {"name": "q32.sql", "value": 9.684}, {"name": "q20.sql", "value": 10.071}, {"name": "q88.sql", "value": 21.591}, {"name": "q45.sql", "value": 13.443}, {"name": "q36.sql", "value": 9.696}, {"name": "q54.sql", "value": 12.933}, {"name": "q48.sql", "value": 11.64}, {"name": "q65.sql", "value": 19.719}, {"name": "q68.sql", "value": 11.804}, {"name": "q86.sql", "value": 8.698}, {"name": "q85.sql", "value": 15.575}, {"name": "q58.sql", "value": 10.534}, {"name": "q59.sql", "value": 13.225}, {"name": "q15.sql", "value": 14.321}, {"name": "q25.sql", "value": 14.997}, {"name": "q7.sql", "value": 10.199}, {"name": "q28.sql", "value": 21.496}, {"name": "q87.sql", "value": 19.282}, {"name": "q22.sql", "value": 13.423}, {"name": "q27.sql", "value": 10.225}, {"name": "q67.sql", "value": 326.671}, {"name": "q6.sql", "value": 10.312}, {"name": "q1.sql", "value": 14.35}, {"name": "q16.sql", "value": 36.914}, {"name": "q17.sql", "value": 15.808}, {"name": "q94.sql", "value": 21.945}, {"name": "q38.sql", "value": 17.949}, {"name": "q18.sql", "value": 16.615}, {"name": "q82.sql", "value": 12.759}, {"name": "q29.sql", "value": 14.375}, {"name": "q97.sql", "value": 16.175}, {"name": "q51.sql", "value": 14.207}, {"name": "q24b.sql", "value": 54.957}, {"name": "q24a.sql", "value": 50.093}, {"name": "q23b.sql", "value": 68.445}, {"name": "q23a.sql", "value": 61.013}, {"name": "q64.sql", "value": 26.576}, {"name": "q50.sql", "value": 17.988}, {"name": "q74.sql", "value": 12.64}, {"name": "q93.sql", "value": 24.014}, {"name": "q78.sql", "value": 22.643}, {"name": "q10.sql", "value": 25.553}, {"name": "q11.sql", "value": 15.545}, {"name": "q4.sql", "value": 19.645}];
+        var data3 = [{"name": "q72.sql", "value": 0.11}, {"name": "q49.sql", "value": 0.74}, {"name": "q9.sql", "value": 0.8}, {"name": "q44.sql", "value": 0.83}, {"name": "q39b.sql", "value": 0.85}, {"name": "q34.sql", "value": 0.86}, {"name": "q30.sql", "value": 0.86}, {"name": "q14a.sql", "value": 0.88}, {"name": "q46.sql", "value": 0.88}, {"name": "q2.sql", "value": 0.88}, {"name": "q77.sql", "value": 0.88}, {"name": "q84.sql", "value": 0.89}, {"name": "q13.sql", "value": 0.89}, {"name": "q35.sql", "value": 0.91}, {"name": "q71.sql", "value": 0.92}, {"name": "q76.sql", "value": 0.92}, {"name": "q52.sql", "value": 0.92}, {"name": "q62.sql", "value": 0.93}, {"name": "q91.sql", "value": 0.93}, {"name": "q99.sql", "value": 0.94}, {"name": "q90.sql", "value": 0.94}, {"name": "q70.sql", "value": 0.95}, {"name": "q61.sql", "value": 0.95}, {"name": "q39a.sql", "value": 0.97}, {"name": "q5.sql", "value": 0.97}, {"name": "q60.sql", "value": 0.98}, {"name": "q31.sql", "value": 0.99}, {"name": "q80.sql", "value": 0.99}, {"name": "q3.sql", "value": 0.99}, {"name": "q8.sql", "value": 1.0}, {"name": "q92.sql", "value": 1.01}, {"name": "q12.sql", "value": 1.01}, {"name": "q14b.sql", "value": 1.01}, {"name": "q33.sql", "value": 1.02}, {"name": "q66.sql", "value": 1.02}, {"name": "q83.sql", "value": 1.02}, {"name": "q42.sql", "value": 1.02}, {"name": "q98.sql", "value": 1.04}, {"name": "q69.sql", "value": 1.04}, {"name": "q43.sql", "value": 1.05}, {"name": "q40.sql", "value": 1.05}, {"name": "q89.sql", "value": 1.05}, {"name": "q26.sql", "value": 1.05}, {"name": "q56.sql", "value": 1.06}, {"name": "q55.sql", "value": 1.06}, {"name": "q96.sql", "value": 1.07}, {"name": "q95.sql", "value": 1.08}, {"name": "q47.sql", "value": 1.09}, {"name": "q19.sql", "value": 1.09}, {"name": "q73.sql", "value": 1.1}, {"name": "q37.sql", "value": 1.1}, {"name": "q21.sql", "value": 1.11}, {"name": "q81.sql", "value": 1.11}, {"name": "q41.sql", "value": 1.11}, {"name": "q57.sql", "value": 1.11}, {"name": "q75.sql", "value": 1.12}, {"name": "q53.sql", "value": 1.12}, {"name": "q63.sql", "value": 1.13}, {"name": "q79.sql", "value": 1.14}, {"name": "q32.sql", "value": 1.14}, {"name": "q20.sql", "value": 1.15}, {"name": "q88.sql", "value": 1.15}, {"name": "q45.sql", "value": 1.15}, {"name": "q36.sql", "value": 1.15}, {"name": "q54.sql", "value": 1.16}, {"name": "q48.sql", "value": 1.16}, {"name": "q65.sql", "value": 1.17}, {"name": "q68.sql", "value": 1.17}, {"name": "q86.sql", "value": 1.18}, {"name": "q85.sql", "value": 1.18}, {"name": "q58.sql", "value": 1.18}, {"name": "q59.sql", "value": 1.18}, {"name": "q15.sql", "value": 1.19}, {"name": "q25.sql", "value": 1.19}, {"name": "q7.sql", "value": 1.2}, {"name": "q28.sql", "value": 1.2}, {"name": "q87.sql", "value": 1.22}, {"name": "q22.sql", "value": 1.24}, {"name": "q27.sql", "value": 1.24}, {"name": "q67.sql", "value": 1.25}, {"name": "q6.sql", "value": 1.26}, {"name": "q1.sql", "value": 1.27}, {"name": "q16.sql", "value": 1.29}, {"name": "q17.sql", "value": 1.33}, {"name": "q94.sql", "value": 1.43}, {"name": "q38.sql", "value": 1.44}, {"name": "q18.sql", "value": 1.47}, {"name": "q82.sql", "value": 1.53}, {"name": "q29.sql", "value": 1.56}, {"name": "q97.sql", "value": 1.58}, {"name": "q51.sql", "value": 1.72}, {"name": "q24b.sql", "value": 1.87}, {"name": "q24a.sql", "value": 1.93}, {"name": "q23b.sql", "value": 2.13}, {"name": "q23a.sql", "value": 2.32}, {"name": "q64.sql", "value": 2.38}, {"name": "q50.sql", "value": 2.39}, {"name": "q74.sql", "value": 2.56}, {"name": "q93.sql", "value": 3.11}, {"name": "q78.sql", "value": 3.14}, {"name": "q10.sql", "value": 3.34}, {"name": "q11.sql", "value": 4.63}, {"name": "q4.sql", "value": 5.11}];
         var seriesName1 = "sql_benchmark_gluten_off";
         var seriesName2 = "sql_benchmark_gluten_velox_on";
 
@@ -54,6 +61,41 @@
             }]
         };
         chart.setOption(option);
+        
+        var chartSpeedup = echarts.init(document.getElementById("chart-speedup"));
+        var optionSpeedup = {
+            title: {
+                text: "SpeedUp Bar Chart (Duration(s)_1/Duration(s)_2)"
+            },
+            legend: {
+                data: ["SpeedUp"]
+            },
+            xAxis: {
+                type: "value"
+            },
+            yAxis: {
+                type: "category",
+                data: data3.map(function (item) {
+                    return item.name;
+                })
+            },
+            series: [{
+                name: "SpeedUp",
+                type: "bar",
+                label: {
+                    show: true,
+                    formatter: '{c}'
+                },
+                data: data3.map(function (item) {
+                    if (item.value < 1) {
+                        return {value: item.value, itemStyle: {color: '#a90000'}};
+                    } else {
+                        return item.value
+                    }
+                })
+            }]
+        };
+        chartSpeedup.setOption(optionSpeedup);
     </script>
 </body>
 </html>

diff --git a/bin/gen_chart.py b/bin/gen_chart.py
@@ -15,15 +15,19 @@ table2 = pd.read_csv(sys.argv[2], delimiter=r'\s+')
 
 # 根据File列进行合并
 merged_table = pd.merge(table1, table2, on='File', suffixes=('_1', '_2'))
+merged_table['Speedup'] = (merged_table['Duration(s)_1'] / merged_table['Duration(s)_2']).round(decimals=2)
+merged_table.sort_values(by='Speedup', ascending=True, inplace=True)
 
 # 提取File和Duration列
 data1 = list(zip(merged_table['File'], merged_table['Duration(s)_1']))
 data2 = list(zip(merged_table['File'], merged_table['Duration(s)_2']))
+data3 = list(zip(merged_table['File'], merged_table['Speedup']))
 
 # 构建ECharts数据
 echarts_data = {
     'data1': [{'name': item[0], 'value': item[1]} for item in data1],
-    'data2': [{'name': item[0], 'value': item[1]} for item in data2]
+    'data2': [{'name': item[0], 'value': item[1]} for item in data2],
+    'data3': [{'name': item[0], 'value': item[1]} for item in data3]
 }
 
 # 生成ECharts HTML文本
@@ -35,7 +39,10 @@ html_template = '''
     <script src="https://cdn.jsdelivr.net/npm/echarts@5.2.2/dist/echarts.min.js"></script>
     <style>
         #chart-container {
-		    position: absolute;
+            width: 100%%;
+            height: 2200px;
+        }
+        #chart-container-speedup {
             width: 100%%;
             height: 2200px;
         }
@@ -45,9 +52,13 @@ html_template = '''
     <div id="chart-container">
         <div id="chart" style="height: 100%%; width: 100%%"></div>
     </div>
+    <div id="chart-container-speedup">
+        <div id="chart-speedup" style="height: 100%%; width: 100%%"></div>
+    </div>
     <script type="text/javascript">
         var data1 = %s;
         var data2 = %s;
+        var data3 = %s;
         var seriesName1 = "%s";
         var seriesName2 = "%s";
 
@@ -83,6 +94,41 @@ html_template = '''
             }]
         };
         chart.setOption(option);
+        
+        var chartSpeedup = echarts.init(document.getElementById("chart-speedup"));
+        var optionSpeedup = {
+            title: {
+                text: "SpeedUp Bar Chart (Duration(s)_1/Duration(s)_2)"
+            },
+            legend: {
+                data: ["SpeedUp"]
+            },
+            xAxis: {
+                type: "value"
+            },
+            yAxis: {
+                type: "category",
+                data: data3.map(function (item) {
+                    return item.name;
+                })
+            },
+            series: [{
+                name: "SpeedUp",
+                type: "bar",
+                label: {
+                    show: true,
+                    formatter: '{c}'
+                },
+                data: data3.map(function (item) {
+                    if (item.value < 1) {
+                        return {value: item.value, itemStyle: {color: '#a90000'}};
+                    } else {
+                        return item.value
+                    }
+                })
+            }]
+        };
+        chartSpeedup.setOption(optionSpeedup);
     </script>
 </body>
 </html>
@@ -91,13 +137,14 @@ html_template = '''
 # 将数据转换为JSON字符串
 data1_json = json.dumps(echarts_data['data1'])
 data2_json = json.dumps(echarts_data['data2'])
+data3_json = json.dumps(echarts_data['data3'])
 
 # 替换HTML模板中的数据
 #name1 = os.path.splitext(os.path.basename(file1))[0]
 #name2 = os.path.splitext(os.path.basename(file2))[0]
 name1 = Path(file1).stem
 name2 = Path(file2).stem
-html_content = html_template % (data1_json, data2_json, name1, name2)
+html_content = html_template % (data1_json, data2_json, data3_json, name1, name2)
 
 fh = open(outputFile, 'w')
 fh.write(html_content)

diff --git a/report/examples/aqe_001/README.md b/report/examples/aqe_001/README.md
@@ -1,5 +1,7 @@
 Running tpcds (sf1000: 250GB) benchmarks with kyuubi + spark (3.1.1/3.4.0) .
 
+**NOTE: This is not a positive example. The spark 3.4 benchmark performance regression caused by too large `spark.sql.adaptive.advisoryPartitionSizeInBytes` setting.**
+
 Configuration:
 
 ```
